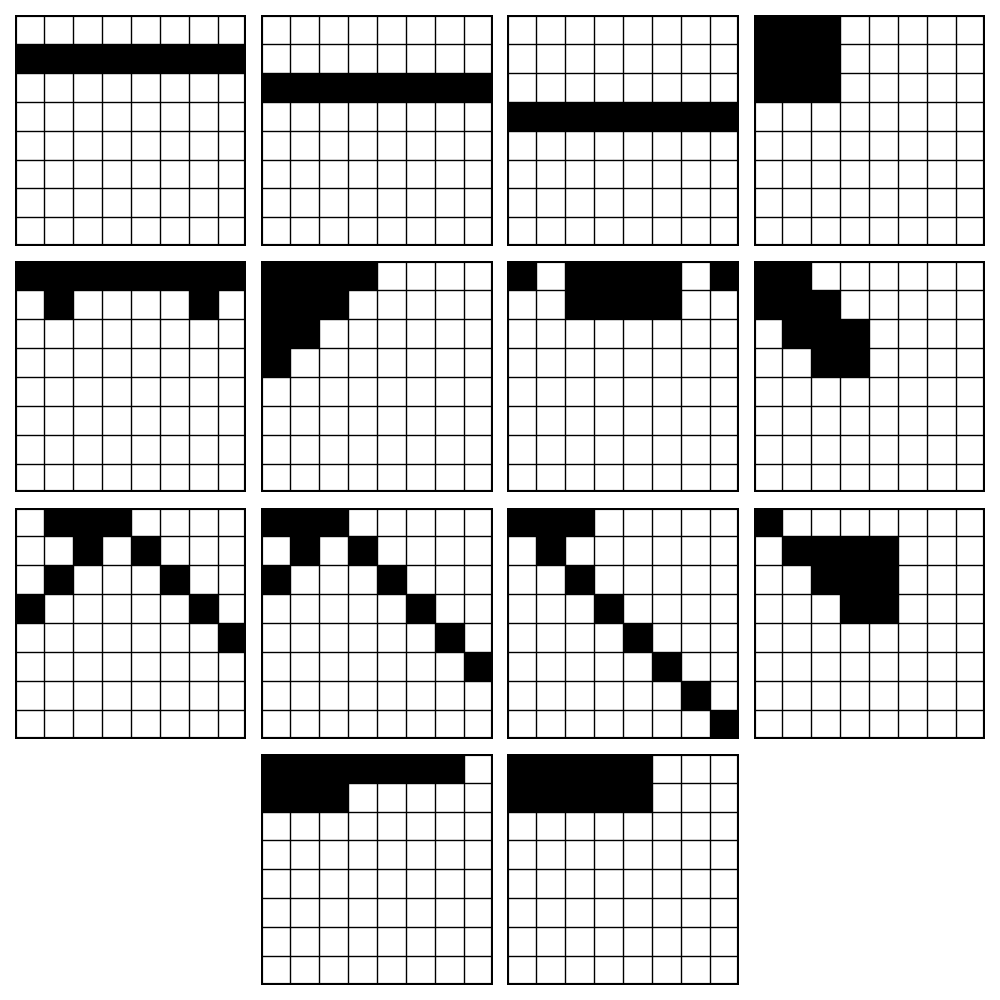
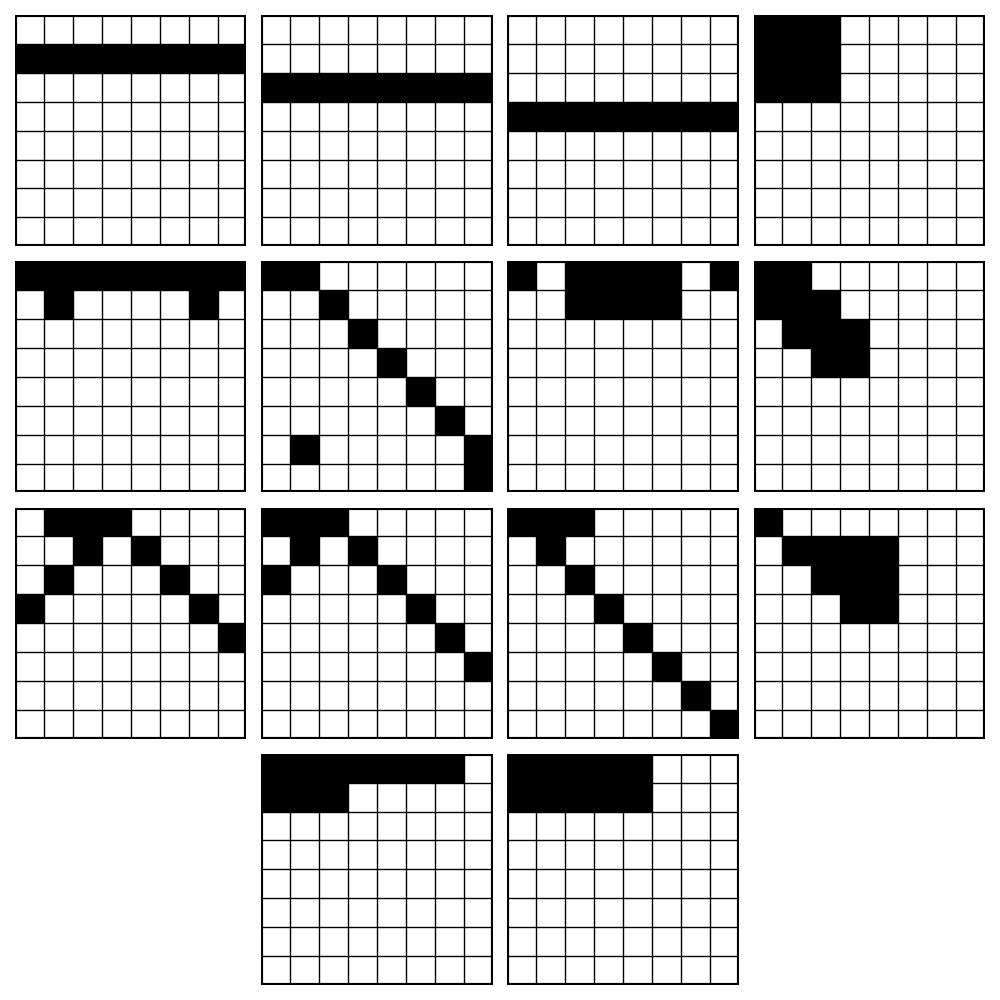
update eval model #456

diff --git a/src/tools/evaluation/evaluation_definition_20250511_1_7_7.hpp b/src/tools/evaluation/evaluation_definition_20250511_1_7_7.hpp
@@ -14,8 +14,8 @@
 #endif
 #include "evaluation_definition_common.hpp"
 
-#define EVAL_DEFINITION_NAME "20241125_1"
-#define EVAL_DEFINITION_DESCRIPTION "pattern (7.5-) + n_discs_of_player"
+#define EVAL_DEFINITION_NAME "20250511_1"
+#define EVAL_DEFINITION_DESCRIPTION "pattern (7.7) + n_discs_of_player"
 
 /*
     @brief evaluation pattern definition
@@ -45,8 +45,8 @@
 
     Raw score is STEP times larger than the real score.
 */
-#define ADJ_STEP 32
-#define ADJ_STEP_2 16
+#define ADJ_STEP 64
+#define ADJ_STEP_2 32
 
 /*
     @brief definition of patterns in evaluation function
@@ -92,11 +92,11 @@ constexpr Adj_Feature_to_coord adj_feature_to_coord[ADJ_N_SYMMETRY_PATTERNS] = {
     {10, {COORD_B7, COORD_A8, COORD_B8, COORD_C8, COORD_D8, COORD_E8, COORD_F8, COORD_G8, COORD_H8, COORD_G7}},
     {10, {COORD_G2, COORD_H1, COORD_H2, COORD_H3, COORD_H4, COORD_H5, COORD_H6, COORD_H7, COORD_H8, COORD_G7}},
 
-    // 5 triangle
-    {10, {COORD_A1, COORD_B1, COORD_C1, COORD_D1, COORD_A2, COORD_B2, COORD_C2, COORD_A3, COORD_B3, COORD_A4}},
-    {10, {COORD_H1, COORD_G1, COORD_F1, COORD_E1, COORD_H2, COORD_G2, COORD_F2, COORD_H3, COORD_G3, COORD_H4}},
-    {10, {COORD_A8, COORD_B8, COORD_C8, COORD_D8, COORD_A7, COORD_B7, COORD_C7, COORD_A6, COORD_B6, COORD_A5}},
-    {10, {COORD_H8, COORD_G8, COORD_F8, COORD_E8, COORD_H7, COORD_G7, COORD_F7, COORD_H6, COORD_G6, COORD_H5}},
+    // 5 d7+2corner+X
+    {10, {COORD_A1, COORD_B1, COORD_C2, COORD_D3, COORD_E4, COORD_F5, COORD_G6, COORD_H7, COORD_H8, COORD_B7}},
+    {10, {COORD_H1, COORD_H2, COORD_G3, COORD_F4, COORD_E5, COORD_D6, COORD_C7, COORD_B8, COORD_A8, COORD_B2}},
+    {10, {COORD_H8, COORD_G8, COORD_F7, COORD_E6, COORD_D5, COORD_C4, COORD_B3, COORD_A2, COORD_A1, COORD_G2}},
+    {10, {COORD_A8, COORD_A7, COORD_B6, COORD_C5, COORD_D4, COORD_E3, COORD_F2, COORD_G1, COORD_H1, COORD_G7}},
 
     // 6 corner + block
     {10, {COORD_A1, COORD_C1, COORD_D1, COORD_E1, COORD_F1, COORD_H1, COORD_C2, COORD_D2, COORD_E2, COORD_F2}},
@@ -179,7 +179,7 @@ constexpr int adj_rev_patterns[ADJ_N_PATTERNS][ADJ_MAX_PATTERN_CELLS] = {
     {7, 6, 5, 4, 3, 2, 1, 0}, // 2 hv4
     {0, 3, 6, 1, 4, 7, 2, 5, 8}, // 3 corner9
     {9, 8, 7, 6, 5, 4, 3, 2, 1, 0}, // 4 edge + 2x
-    {0, 4, 7, 9, 1, 5, 8, 2, 6, 3}, // 5 triangle
+    {8, 7, 6, 5, 4, 3, 2, 1, 0, 9}, // 5 d7+2corner+X
     {5, 4, 3, 2, 1, 0, 9, 8, 7, 6}, // 6 corner + block
     {0, 1, 2, 3, 7, 8, 9, 4, 5, 6}, // 7 cross
     {-1}, // 8 d4+d5+BC

diff --git a/src/tools/evaluation/eval_optimizer_phase.py b/src/tools/evaluation/eval_optimizer_phase.py
@@ -45,7 +45,20 @@ executable = 'eval_optimizer_cuda_12_2_0_move_ordering_end_nws.exe'
 
 
 
-#'''
+'''
+def calc_random_board_used_n_moves(n_random_moves):
+    if n_random_moves < 20:
+        return n_random_moves
+    return n_random_moves + 3
+train_data_nums = []
+for elem in train_data_nums_all:
+    #print(elem, board_n_moves[str(elem)][0], file=sys.stderr)
+    if calc_random_board_used_n_moves(board_n_moves[str(elem)][0]) <= int(phase):
+        train_data_nums.append(elem)
+'''
+
+
+'''
 # 7.5
 train_data_nums = [
     18, 19, 20, 21, 24, 25, 28, 29, 30, 31, # old data (without records27)
@@ -78,21 +91,22 @@ train_data_nums = [
     #205, 206, 207, 208, 209, 210, 211, 212, 213, # random boards 50-58
     214, # random 11 (first11_all)
 ]
-'''
-def calc_random_board_used_n_moves(n_random_moves):
-    if n_random_moves < 20:
-        return n_random_moves
-    return n_random_moves + 3
-train_data_nums = []
-for elem in train_data_nums_all:
-    #print(elem, board_n_moves[str(elem)][0], file=sys.stderr)
-    if calc_random_board_used_n_moves(board_n_moves[str(elem)][0]) <= int(phase):
-        train_data_nums.append(elem)
-'''
 train_data_nums.sort()
 #print(train_data_nums, file=sys.stderr)
 train_root_dir = os.environ['EGAROUCID_DATA'] + '/train_data/bin_data/20241125_1/'
 executable = 'eval_optimizer_cuda_12_2_0_20241125_1_7_5.exe'
+#'''
+
+
+#'''
+# 7.7
+train_data_nums = [
+    97, # public data
+]
+train_data_nums.sort()
+#print(train_data_nums, file=sys.stderr)
+train_root_dir = os.environ['EGAROUCID_DATA'] + '/train_data/bin_data/20250511_1/'
+executable = 'eval_optimizer_cuda_12_2_0_20250511_1_7_7.exe'
 #'''
 
 

diff --git a/src/tools/evaluation/data_translate.py b/src/tools/evaluation/data_translate.py
@@ -36,12 +36,22 @@ board_sub_dir_nums = [43, 44, 45]
 #'''
 
 
-#'''
+'''
 # 7.5
 bin_root_dir = os.environ['EGAROUCID_DATA'] + '/train_data/bin_data/20241125_1/'
 exe = 'data_board_to_idx_20241125_1_7_5.out'
 N_PHASES = 60
 board_sub_dir_nums = [195, 196, 197, 214]
+board_sub_dir_nums.sort()
+#'''
+
+
+#'''
+# 7.7
+bin_root_dir = os.environ['EGAROUCID_DATA'] + '/train_data/bin_data/20250511_1/'
+exe = 'data_board_to_idx_20250511_1_7_7.out'
+N_PHASES = 60
+board_sub_dir_nums = [97]
 board_sub_dir_nums.sort()
 #'''
 

diff --git a/src/tools/evaluation/test_loss_wrapper.py b/src/tools/evaluation/test_loss_wrapper.py
@@ -46,10 +46,23 @@ for _ in range(12):
 for _ in range(12, 61):
     data_nums.append([38])
 #'''
-#''' # 7.5
+
+
+''' # 7.5
 N_PHASES = 60
 data_root_dir = os.environ['EGAROUCID_DATA'] + '/train_data/bin_data/20241125_1/'
 exe = 'test_loss_20241125_1_7_5.out'
+#'''
+
+
+
+#''' # 7.7
+N_PHASES = 60
+data_root_dir = os.environ['EGAROUCID_DATA'] + '/train_data/bin_data/20250511_1/'
+exe = 'test_loss_20250511_1_7_7.out'
+#'''
+
+
 eval_file = 'trained/eval.egev'
 
 for data_num in [166, 167]:

diff --git a/src/tools/evaluation/evaluation_definition.hpp b/src/tools/evaluation/evaluation_definition.hpp
@@ -12,7 +12,7 @@
 
 //#include "evaluation_definition_20240419_1_cell_weight.hpp"
 //#include "evaluation_definition_20250214_1_cell_weight_60phase.hpp"
-
+//#include "evaluation_definition_20241125_1_7_5.hpp"
 
 //#include "evaluation_definition_20240301_4_move_ordering_end_nws.hpp"
-#include "evaluation_definition_20241125_1_7_5.hpp"
+#include "evaluation_definition_20250511_1_7_7.hpp"

diff --git a/src/tools/evaluation/util/rotate_features.py b/src/tools/evaluation/util/rotate_features.py
@@ -3,7 +3,7 @@ s = input()
 
 s = s.split(', ')
 
-N_SYMMETRY = 8
+N_SYMMETRY = 4
 
 res = [[] for _ in range(N_SYMMETRY)]
 
